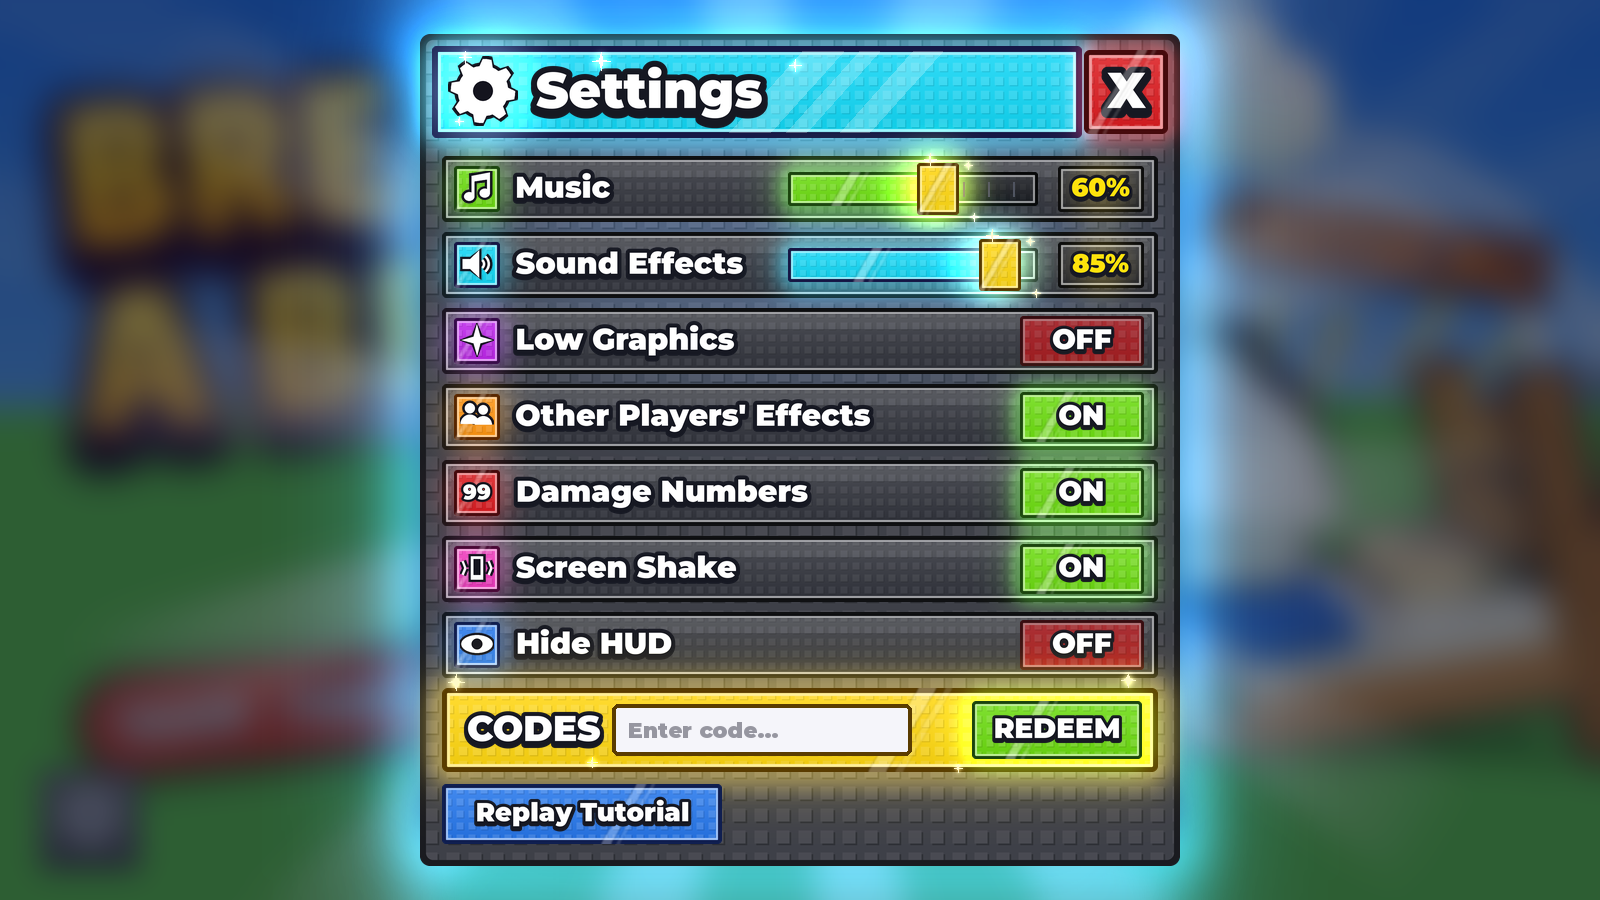
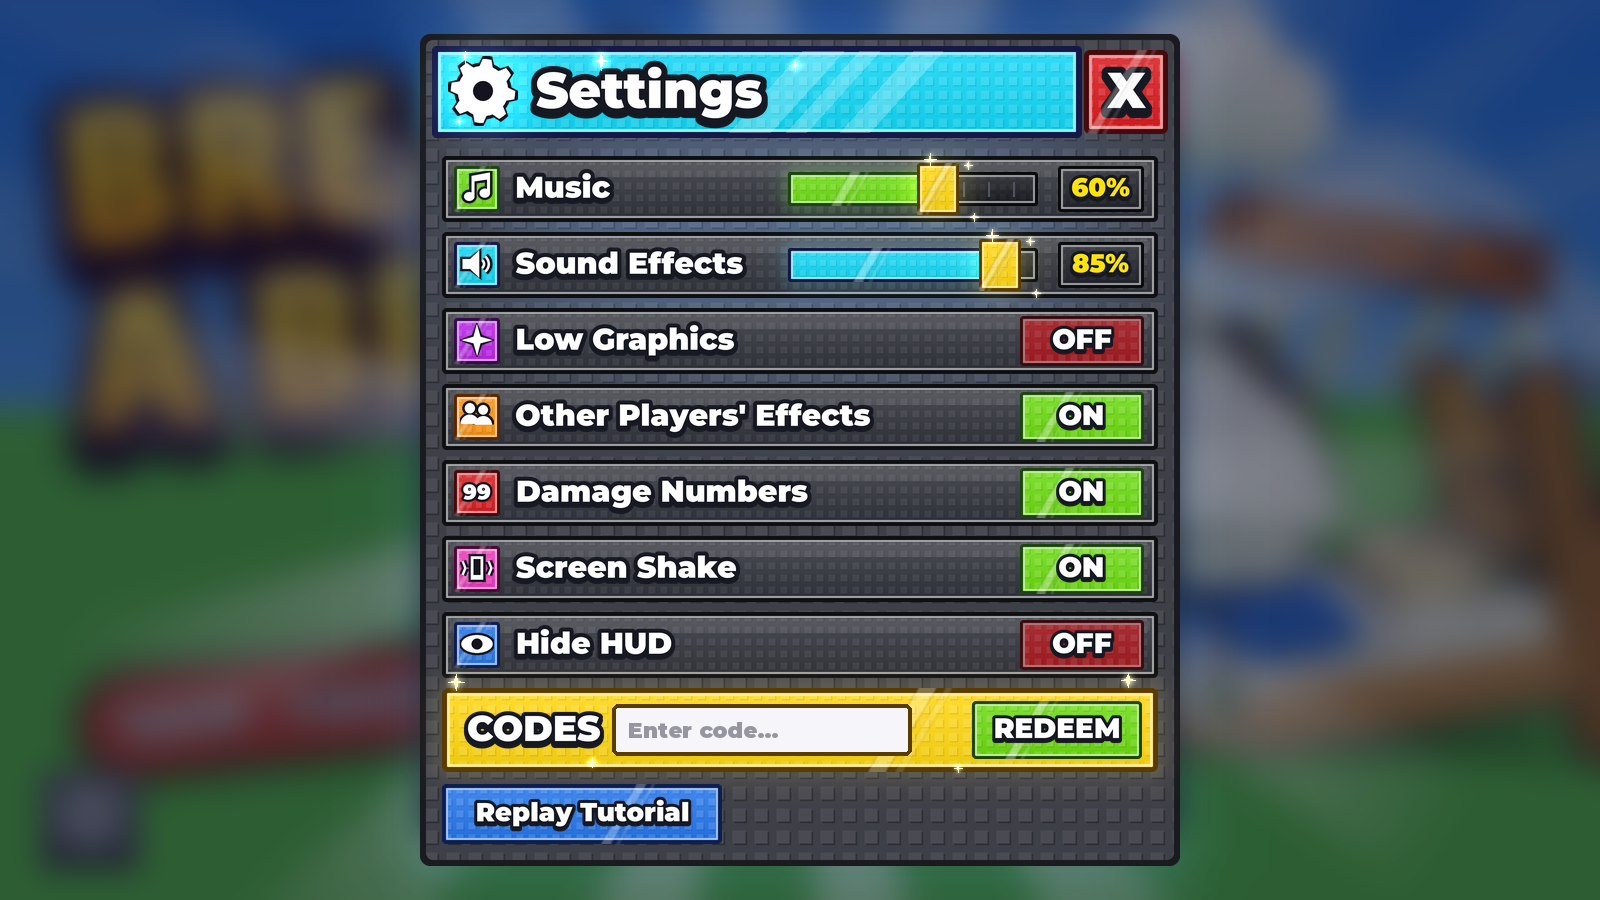
Break A Bed: less glow on Settings window
Claude-Session: https://claude.ai/code/session_016uvrS3Ui1ijFbyufuEdzSK

Changed region(s): [[0.2188, 0.0, 0.7812, 1.0]]

diff --git a/Break A Bed/Settings.md b/Break A Bed/Settings.md
@@ -62,6 +62,14 @@ The picture above (`preview-settings-sliders.png`) is the target. Keep the layou
 - **Opening:** the window pops in (Back Out), then the rows slide in one after another (0.03 s apart).
 - Low Graphics: keep the icons and glows, turn off the twinkles and the shine sweeps.
 
+**Glow toned down (owner 2026-10-12: "too much glow").** The picture above is updated. Glow is now only:
+- a **faint** cyan edge around the window (Transparency 0.85),
+- a faint light behind the gear (Transparency 0.8),
+- a thin glow on the slider fills (Transparency 0.75) and a small one behind the yellow knob (Transparency 0.8),
+- a faint gold edge on the CODES row (Transparency 0.8).
+
+**No glow** behind the row icons, the ON/OFF buttons, REDEEM, X, the title bar or the "60%" text. Keep the shines, twinkles, icons and animations. On drag, the slider glow only goes up a little (to Transparency 0.6).
+
 ## Codes
 Codes are a cheap way to get players to join the group, like the game and come back for new codes.
 
